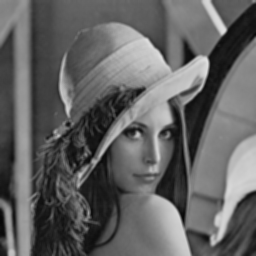
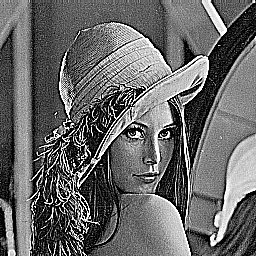
added some more images and figured out why python was processing things weird

diff --git a/peaksnr/pycalc_peaksnr_for_lpf.py b/peaksnr/pycalc_peaksnr_for_lpf.py
@@ -4,27 +4,49 @@ from PIL import Image
 
 
 def main():
-    img = Image.open("lena.gif")
-    img_array = np.array(img, dtype=float)
+    img_name = "lena.gif" #small image
+    # img_name = "railroad.jpg" #medium image
+    # img_name = "wolfy.jpg" #large image
     
+    img = Image.open(img_name)
+    img_array = np.array(img, dtype=float)
 
-    dim_filter = 3
-    filter = np.full((dim_filter,dim_filter), 1/9)
-    padded_array = make_padd_array(img_array, dim_filter, 'replicate')
     
     #for BW image the maximum intesity is 255, so we need to normalize the data
-    #we normalize afterward because python is weird with floating stuff
-    peak_snr = psnr(img_array/255, do_convolution(padded_array, filter, dim_filter)/255, 255)
+    img_array = img_array/255.0
+
+    dim_filter = 3
+    # filter = np.full((dim_filter,dim_filter), 1/9)
+    filter = np.array([[-1.,-1.,-1.],[-1.,9.,-1.],[-1.,-1.,-1.]]) #hpf test
+    padded_array = make_padd_array(img_array, dim_filter, 'replicate')
+
+    
+    new_image_array = do_convolution(padded_array, filter, dim_filter)
+    new_image = Image.fromarray(new_image_array*255)
+    if new_image.mode != 'L':
+        new_image = new_image.convert('L')
+    
+    new_image_name = 'py' + img_name
+    new_image.save(new_image_name)
+    
+    peak_snr = psnr(img_array, new_image_array, 255)
     print("The peak snr value for the first filter is: ", peak_snr)
     
+    #========================= SECOND FILTER ===========================
     
     dim_filter = 5
     filter = np.full((dim_filter,dim_filter), 1/25)
     padded_array = make_padd_array(img_array, dim_filter, 'replicate')
     
-    #for BW image the maximum intesity is 255, so we need to normalize the data
-    #we normalize afterward because python is weird with floating stuff
-    peak_snr = psnr(img_array/255, do_convolution(padded_array, filter, dim_filter)/255, 255)
+    new_image_array = do_convolution(padded_array, filter, dim_filter)
+    new_image = Image.fromarray(new_image_array*255)
+    if new_image.mode != 'L':
+        new_image = new_image.convert('L')
+
+    new_image_name = '2py' + img_name
+    new_image.save(new_image_name)
+
+    peak_snr = psnr(img_array, new_image_array, 255)
     print("The peak snr value for the second filter is: ", peak_snr)
 
     return 0;
@@ -35,17 +57,18 @@ def psnr(orig_array, filtered_array, peak_val):
     peaksnr = 10*m.log(peak_val**2/mse, 10)  
     return peaksnr;
 
+
 def do_convolution(parray, filter, filter_dimension):
     rows, columns = parray.shape
     padding = m.floor(filter_dimension/2)
     rows = rows - 2*padding
     columns = columns - 2*padding
-    new_array = np.full((rows, columns), 1)
+    new_array = np.full((rows, columns), 1.0)
     
     for i in range(0,rows):
         for j in range(0, columns):
             new_array[i, j] = np.sum(parray[i:i+filter_dimension, j:j+filter_dimension]*filter)
-  
+
     return new_array;
 
 
@@ -53,9 +76,8 @@ def make_padd_array(array, filter_dimension, type):
     rows, columns = array.shape
     padding = m.floor(filter_dimension/2)
 
-    padd_array = np.full((rows + 2*padding, columns + 2*padding), 0)
+    padd_array = np.full((rows + 2*padding, columns + 2*padding), 0.0)
     padd_array[padding:-padding, padding:-padding] = array
-
 
     if type == 'replicate':
         for i in range(0,padding):
@@ -70,7 +92,7 @@ def make_padd_array(array, filter_dimension, type):
         padd_array[-padding:, -padding:] = np.full((padding, padding), array[-1,-1])
     elif type != 'zero':
         print(f"Type \"{type}\" not defined returning zero padded array")
-        
+
     return padd_array
 
 if __name__ == "__main__":

diff --git a/peaksnr/calc_peaksnr_for_lpf.m b/peaksnr/calc_peaksnr_for_lpf.m
@@ -1,15 +1,20 @@
 echo off;
 
 I = imread('lena.gif');
+% I = imread('railroad.jpg')
+% I = imread('wolfy.jpg');
 I2 = im2double(I);
-Filter = 1/9.*ones(3);
+
+
+% Filter = 1/9.*ones(3);
+Filter = [[-1 -1 -1]; [-1 9 -1]; [-1 -1 -1]] %hpf test
 NewImage = imfilter(I2, Filter, 'replicate');
 imwrite(NewImage, 'processed_lena.png');
 
 %Computing the peaksnr value assumeing the the maximum is 255 (8-bit b/w image)
 mse = 1/(256*256)*sum( (I2 - NewImage).^2, 'all')
 peaksnr = 10*log10(255^2/mse);
-[pksnr, snr] = psnr(NewImage, I2); 
+[pksnr, snr] = psnr(NewImage, I2, 255); 
 fprintf('\n The Peak-SNR value is %0.4f\n', pksnr);
 
 
@@ -21,6 +26,5 @@ imwrite(NewImage, 'processed_lena2.png');
 %Computing the peaksnr value assumeing the the maximum is 255 (8-bit b/w image)
 mse2 = 1/(256*256)*sum( (I2 - NewImage2).^2, 'all');
 peaksnr2 = 10*log10(255^2/mse2);
-[pksnr2, snr2] = psnr(NewImage2, I2);
+[pksnr2, snr2] = psnr(NewImage2, I2, 255);
 fprintf('\n The Peak-SNR value is %0.4f\n', pksnr2);
-
